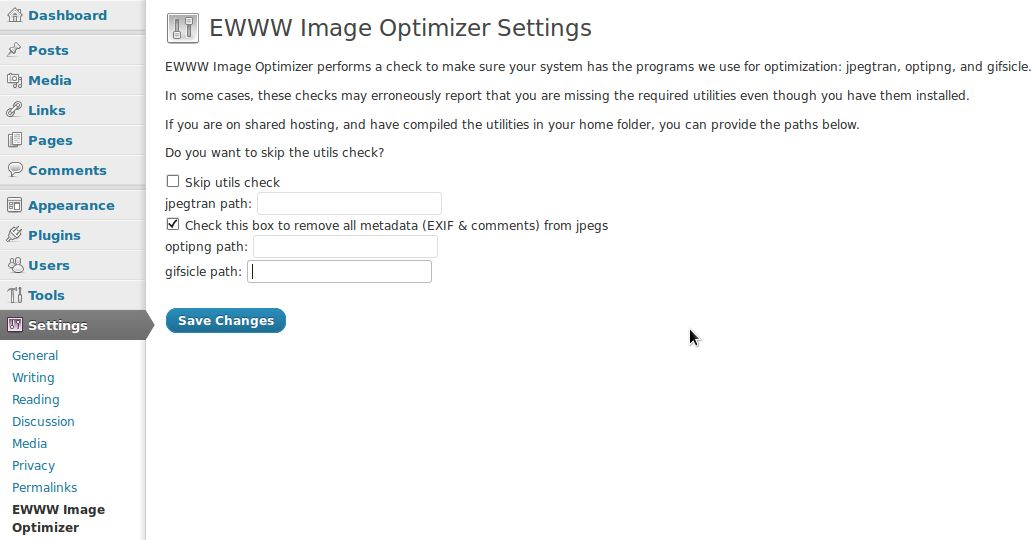
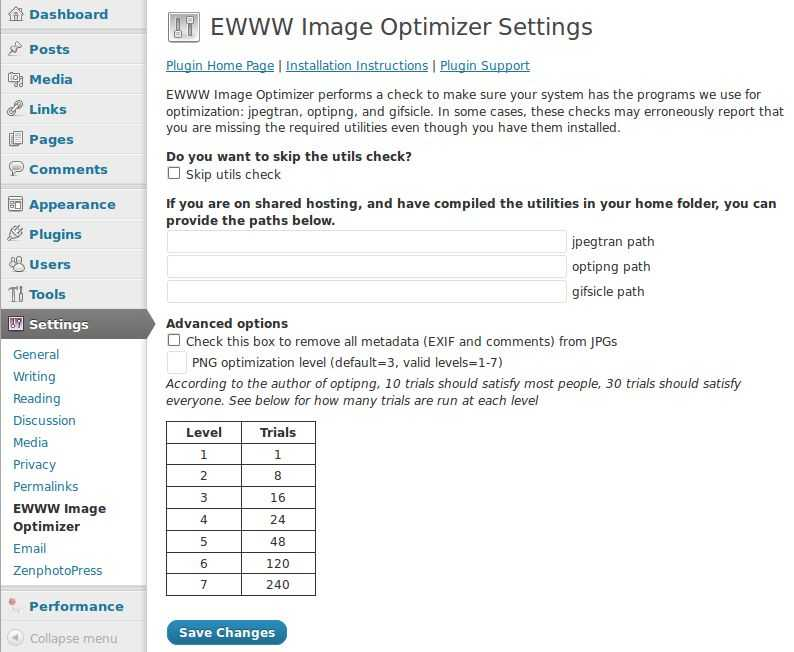
PNG optimization levels added, code cleanup - candidate for 1.0.3
git-svn-id: https://plugins.svn.wordpress.org/ewww-image-optimizer/trunk@555053 b8457f37-d9ea-0310-8a92-e5e31aec5664

Changed region(s): [[0.0, 0.0, 0.9975, 1.0], [0.7254, 0.3556, 0.8161, 0.4741]]

diff --git a/ewww-image-optimizer.php b/ewww-image-optimizer.php
@@ -1,7 +1,7 @@
 <?php
 /**
  * Integrate Linux image optimizers into WordPress.
- * @version 1.0.2
+ * @version 1.0.3
  * @package EWWW_Image_Optimizer
  */
 /*
@@ -9,7 +9,7 @@ Plugin Name: EWWW Image Optimizer
 Plugin URI: http://www.shanebishop.net/ewww-image-optimizer/
 Description: Reduce image file sizes and improve performance using Linux image optimizers within WordPress. Uses jpegtran, optipng, and gifsicle.
 Author: Shane Bishop
-Version: 1.0.2
+Version: 1.0.3
 Author URI: http://www.shanebishop.net/
 License: GPLv3
 */
@@ -107,6 +107,7 @@ function ewww_image_optimizer_admin_init() {
         register_setting('ewww_image_optimizer_options', 'ewww_image_optimizer_skip_check');
         register_setting('ewww_image_optimizer_options', 'ewww_image_optimizer_skip_gifs');
         register_setting('ewww_image_optimizer_options', 'ewww_image_optimizer_jpegtran_copy');
+        register_setting('ewww_image_optimizer_options', 'ewww_image_optimizer_optipng_level');
         register_setting('ewww_image_optimizer_options', 'ewww_image_optimizer_jpegtran_path');
         register_setting('ewww_image_optimizer_options', 'ewww_image_optimizer_optipng_path');
         register_setting('ewww_image_optimizer_options', 'ewww_image_optimizer_gifsicle_path');
@@ -181,15 +182,7 @@ function ewww_image_optimizer_manual() {
  * @param   string $file            Full absolute path to the image file
  * @returns array
  */
-function ewww_image_optimizer($file, $attach_id) {
-	// don't run on localhost, IPv4 and IPv6 checks
-	// if( in_array($_SERVER['SERVER_ADDR'], array('127.0.0.1', '::1')) )
-	//	return array($file, __('Not processed (local file)', EWWW_IMAGE_OPTIMIZER_DOMAIN));
-
-	// canonicalize path - disabled 2011-02-1 troubleshooting 'Could not find...' errors.
-	// From the PHP docs: "The running script must have executable permissions on 
-	// all directories in the hierarchy, otherwise realpath() will return FALSE."
-	// $file_path = realpath($file);
+function ewww_image_optimizer($file) {
 	
 	$file_path = $file;
 
@@ -260,7 +253,12 @@ function ewww_image_optimizer($file, $attach_id) {
             break;
         case 'image/png':
             $orig_size = filesize($file);
-            exec("$optipng_path -o3 -quiet $file");
+            if(get_option('ewww_image_optimizer_optipng_level') > 0){
+                $optipng_level = get_option('ewww_image_optimizer_optipng_level');
+            } else {
+                $optipng_level = 3;
+            }
+            exec("$optipng_path -o$optipng_level -quiet $file");
             clearstatcache();
             $new_size = filesize($file);
             if ($orig_size > $new_size) {
@@ -270,38 +268,24 @@ function ewww_image_optimizer($file, $attach_id) {
             }
             break;
         case 'image/gif':
-            // if someone was paying attention, and disabled gif processing
-            //$skip_gifs = get_option('ewww_image_optimizer_skip_gifs');
-            //if ($skip_gifs || $frames > 1) {
-            //    $result = "animated";
-            //} else {
             $orig_size = filesize($file);
-            //    $newfile = str_replace('.gif', '.png', $file);
             exec("$gifsicle_path -b -O3 --careful $file");
             clearstatcache();
             $new_size = filesize($file);
             if ($orig_size > $new_size) {
                 $result = "$file: $orig_size vs. $new_size";
-            //        update_attached_file($attach_id, $newfile );
-            //        $file = $newfile;
             } else {
                 $result = "$file: unchanged";
             }
-            //}
             break;
         default:
             return array($file, __('Unknown type: ' . $type, EWWW_IMAGE_OPTIMIZER_DOMAIN));
     }
 
-    //$result = exec($command . ' ' . escapeshellarg($file));
-
     $result = str_replace($file . ': ', '', $result);
 
     if($result == 'unchanged') {
         return array($file, __('No savings', EWWW_IMAGE_OPTIMIZER_DOMAIN));
-    }
-    if($result == 'animated') {
-        return array($file, __('GIFs not supported', EWWW_IMAGE_OPTIMIZER_DOMAIN));
     }
     if(strpos($result, ' vs. ') !== false) {
         $s = explode(' vs. ', $result);
@@ -343,7 +327,7 @@ function ewww_image_optimizer_resize_from_meta_data($meta, $ID = null) {
 		$file_path =  $upload_path . $file_path;
 	}
 
-	list($file, $msg) = ewww_image_optimizer($file_path, $ID);
+	list($file, $msg) = ewww_image_optimizer($file_path);
 
 	$meta['file'] = $file;
 	$meta['ewww_image_optimizer'] = $msg;
@@ -362,7 +346,7 @@ function ewww_image_optimizer_resize_from_meta_data($meta, $ID = null) {
 
 
 	foreach($meta['sizes'] as $size => $data) {
-		list($optimized_file, $results) = ewww_image_optimizer($base_dir . $data['file'], $ID);
+		list($optimized_file, $results) = ewww_image_optimizer($base_dir . $data['file']);
 
 		$meta['sizes'][$size]['file'] = str_replace($base_dir, '', $optimized_file);
 		$meta['sizes'][$size]['ewww_image_optimizer'] = $results;
@@ -482,18 +466,29 @@ function ewww_image_optimizer_options () {
 	<p><a href="http://shanebishop.net/ewww-image-optimizer/">Plugin Home Page</a> |
 	<a href="http://wordpress.org/extend/plugins/ewww-image-optimizer/installation/">Installation Instructions</a> | 
 	<a href="http://wordpress.org/support/plugin/ewww-image-optimizer">Plugin Support</a></p>
-        <p>EWWW Image Optimizer performs a check to make sure your system has the programs we use for optimization: jpegtran, optipng, and gifsicle.</p>
-        <p>In some cases, these checks may erroneously report that you are missing the required utilities even though you have them installed.</p>
-        <p>If you are on shared hosting, and have compiled the utilities in your home folder, you can provide the paths below.</p>
+        <p>EWWW Image Optimizer performs a check to make sure your system has the programs we use for optimization: jpegtran, optipng, and gifsicle. In some cases, these checks may erroneously report that you are missing the required utilities even though you have them installed.</p>
         <form method="post" action="options.php">
             <?php settings_fields('ewww_image_optimizer_options'); ?>
-            <p>Do you want to skip the utils check?</p>
-            <input type="checkbox" id="ewww_image_optimizer_skip_check" name="ewww_image_optimizer_skip_check" value="true" <?php if (get_option('ewww_image_optimizer_skip_check') == TRUE) { ?>checked="true"<?php } ?> /> <label for="ewww_image_optimizer_skip_check" />Skip utils check</label><br />
-            <!--<input type="checkbox" id="ewww_image_optimizer_skip_gifs" name="ewww_image_optimizer_skip_gifs" value="true" <?php if (get_option('ewww_image_optimizer_skip_gifs') == TRUE) { ?>checked="true"<?php } ?> /> <label for="ewww_image_optimizer_skip_gifs" />Skip GIFs</label><br />-->
-            <label>jpegtran path: <input type="text" id="ewww_image_optimizer_jpegtran_path" name="ewww_image_optimizer_jpegtran_path" value="<?php echo get_option('ewww_image_optimizer_jpegtran_path'); ?>" /></label><br />
-            <input type="checkbox" id="ewww_image_optimizer_jpegtran_copy" name="ewww_image_optimizer_jpegtran_copy" value="true" <?php if (get_option('ewww_image_optimizer_jpegtran_copy') == TRUE) { ?>checked="true"<?php } ?> /> <label for="ewww_image_optimizer_jpegtran_copy" />Check this box to remove all metadata (EXIF & comments) from jpegs</label><br />
-            <label>optipng path: <input type="text" id="ewww_image_optimizer_optipng_path" name="ewww_image_optimizer_optipng_path" value="<?php echo get_option('ewww_image_optimizer_optipng_path'); ?>" /></label><br />
-            <label>gifsicle path: <input type="text" id="ewww_image_optimizer_gifsicle_path" name="ewww_image_optimizer_gifsicle_path" value="<?php echo get_option('ewww_image_optimizer_gifsicle_path'); ?>" /></label><br />
+            <p><b>Do you want to skip the utils check?</b><br />
+            <input type="checkbox" id="ewww_image_optimizer_skip_check" name="ewww_image_optimizer_skip_check" value="true" <?php if (get_option('ewww_image_optimizer_skip_check') == TRUE) { ?>checked="true"<?php } ?> /> <label for="ewww_image_optimizer_skip_check" />Skip utils check</label></p>
+            <p><b>If you are on shared hosting, and have compiled the utilities in your home folder, you can provide the paths below.</b><br />
+            <label><input type="text" style="width: 400px" id="ewww_image_optimizer_jpegtran_path" name="ewww_image_optimizer_jpegtran_path" value="<?php echo get_option('ewww_image_optimizer_jpegtran_path'); ?>" /> jpegtran path</label><br />
+            <label><input type="text" style="width: 400px" id="ewww_image_optimizer_optipng_path" name="ewww_image_optimizer_optipng_path" value="<?php echo get_option('ewww_image_optimizer_optipng_path'); ?>" /> optipng path</label><br />
+            <label><input type="text" style="width: 400px" id="ewww_image_optimizer_gifsicle_path" name="ewww_image_optimizer_gifsicle_path" value="<?php echo get_option('ewww_image_optimizer_gifsicle_path'); ?>" /> gifsicle path</label></p>
+            <p><b>Advanced options</b><br />
+            <input type="checkbox" id="ewww_image_optimizer_jpegtran_copy" name="ewww_image_optimizer_jpegtran_copy" value="true" <?php if (get_option('ewww_image_optimizer_jpegtran_copy') == TRUE) { ?>checked="true"<?php } ?> /> <label for="ewww_image_optimizer_jpegtran_copy" />Check this box to remove all metadata (EXIF and comments) from JPGs</label><br />
+            <label><input type="text" style="width: 20px" id="ewww_image_optimizer_optipng_level" name="ewww_image_optimizer_optipng_level" value="<?php echo get_option('ewww_image_optimizer_optipng_level'); ?>" /> PNG optimization level (default=3, valid levels=1-7)</label><br />
+            <i>According to the author of optipng, 10 trials should satisfy most people, 30 trials should satisfy everyone. See below for how many trials are run at each level:</i></p>
+            <table border="1" cellpadding="2" style="width: 150px; border-collapse: collapse; text-align: center">
+                <tr><th>Level</th><th>Trials</th>
+                <tr><td>1</td><td>1</td></tr>
+                <tr><td>2</td><td>8</td></tr>
+                <tr><td>3</td><td>16</td></tr>
+                <tr><td>4</td><td>24</td></tr>
+                <tr><td>5</td><td>48</td></tr>
+                <tr><td>6</td><td>120</td></tr>
+                <tr><td>7</td><td>240</td></tr>
+            </table>
             <p class="submit">
                 <input type="submit" class="button-primary" value="Save Changes" />
             </p>
